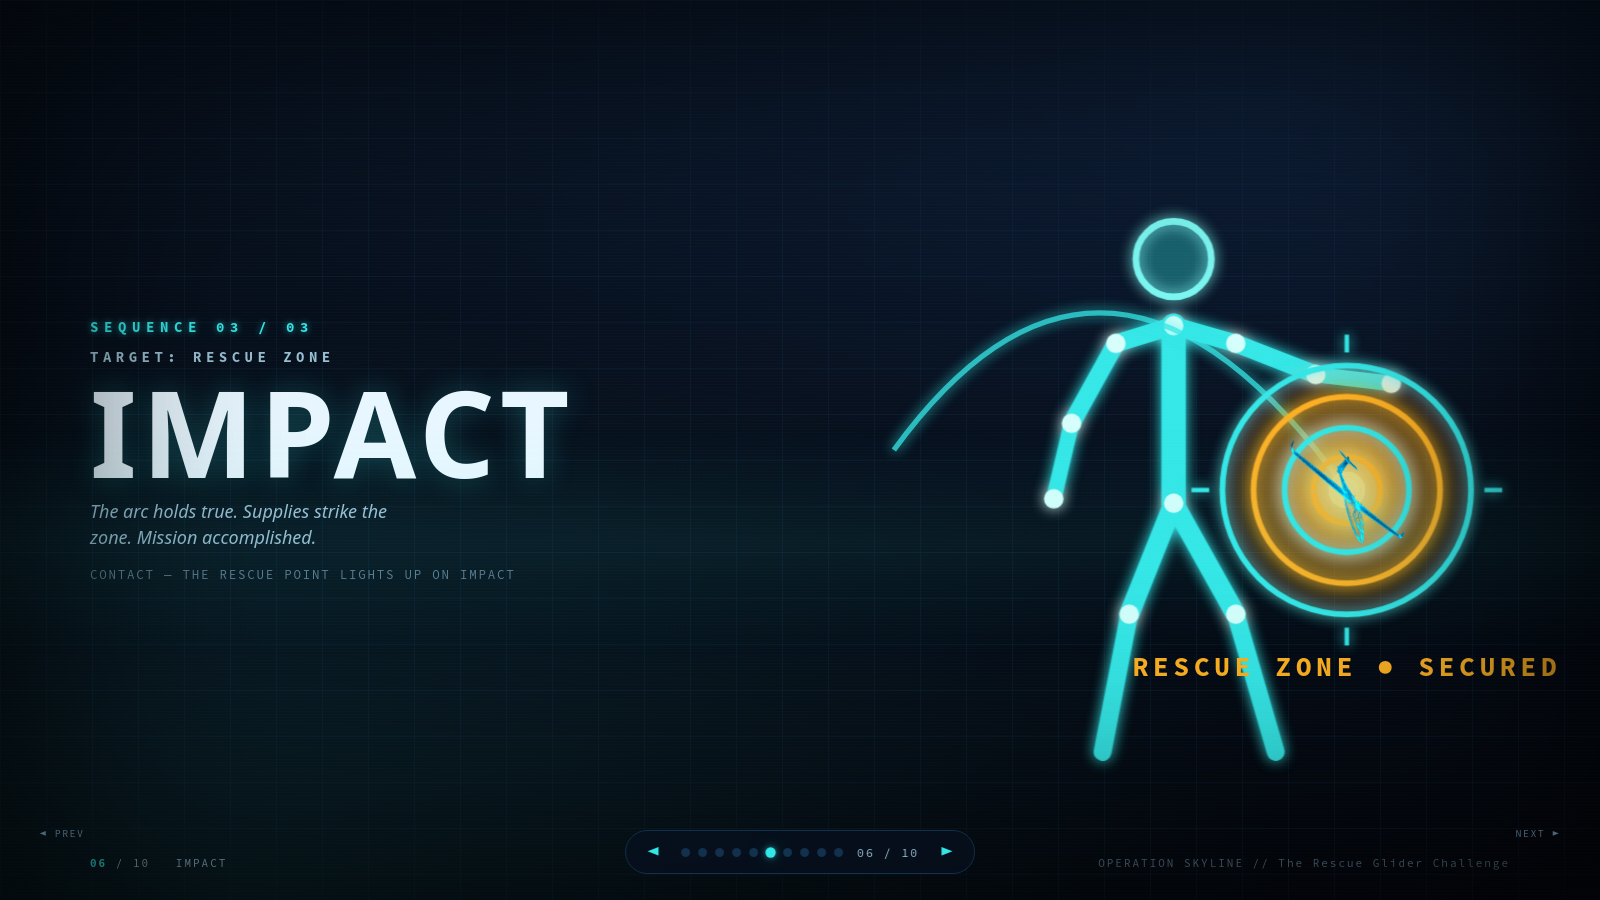
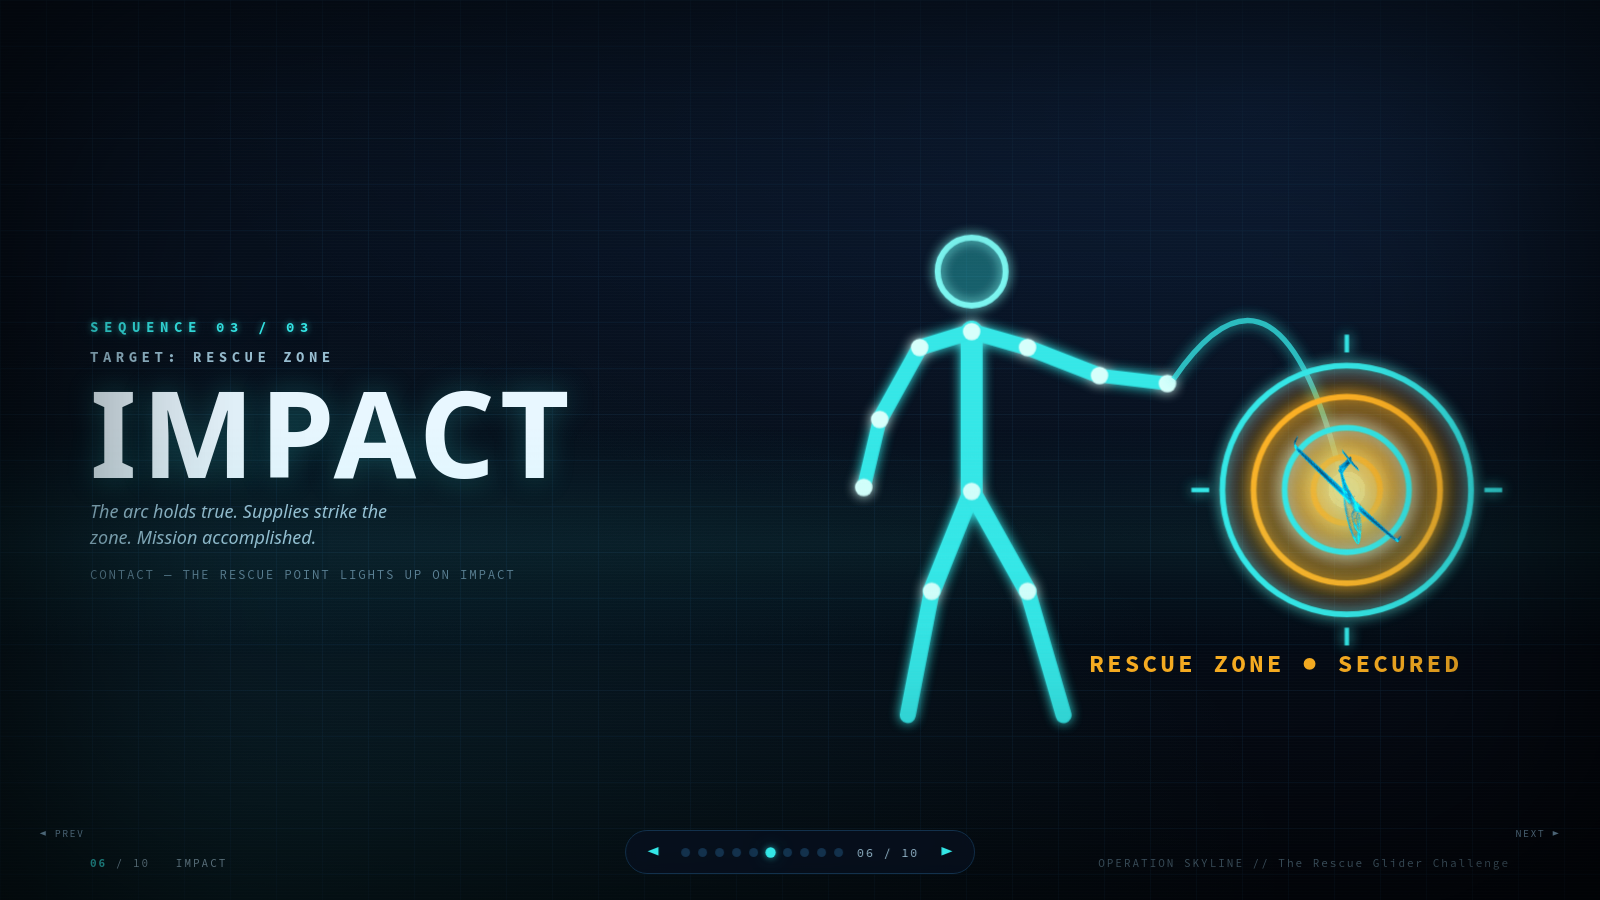
IMPACT slide: reposition figure so it no longer overlaps the target
The follow-through pose extended the right arm into the same right-side space as
the target rings, so the figure crossed through the bullseye; the caption also
overflowed the viewBox and clipped.

- Added an optional transform arg to figure(); on IMPACT the figure is shifted
  left and scaled (translate(-76,12) scale(0.9)) to clear the target.
- Rerouted the flight arc + retuned the glider keyframes to run from the
  follow-through hand up and over into the bullseye (clear of the body).
- Repositioned/resized the 'RESCUE ZONE - SECURED' caption so it fits.

Verified via headless Chromium (qa/html-06-impact.png); build/launch unchanged.

Changed region(s): [[0.5312, 0.2178, 0.9688, 0.8711], [0.8438, 0.56, 0.875, 0.6222]]

diff --git a/deck.html b/deck.html
@@ -264,11 +264,10 @@
   /* IMPACT — glider arcs in from the left and dives into the bullseye */
   .slide.active .glideI{animation:glideI 1.5s var(--ease) .5s forwards;}
   @keyframes glideI{
-    0%  {opacity:0; transform:translate(-204px,-18px) rotate(-50deg) scale(.7);}
-    12% {opacity:1; transform:translate(-204px,-18px) rotate(-50deg) scale(1);}
-    55% {transform:translate(-105px,-80px) rotate(8deg);}
-    88% {transform:translate(-28px,-18px) rotate(40deg);}
-    100%{opacity:1; transform:translate(0,0) rotate(54deg) scale(.9);}
+    0%  {opacity:0; transform:translate(-78px,-50px) rotate(-58deg) scale(.6);}
+    14% {opacity:1; transform:translate(-78px,-50px) rotate(-58deg) scale(1);}
+    55% {transform:translate(-34px,-66px) rotate(-2deg);}
+    100%{opacity:1; transform:translate(0,0) rotate(58deg) scale(.9);}
   }
   /* amber shock-ripple when the glider strikes the zone */
   .ripple{opacity:0; transform-box:fill-box; transform-origin:center;}
@@ -402,8 +401,9 @@ function emblem(size){
 }
 
 // Holo-figure (articulated neon mannequin) in a given pose.
-// pose: 'build' | 'launch' | 'follow'
-function figure(pose){
+// pose: 'build' | 'launch' | 'follow'.  Optional `xform` repositions/scales the
+// whole figure within the 0..300 box (used on IMPACT to clear the target).
+function figure(pose, xform=""){
   // joint coordinates in a 0..300 box
   const P={
     build:{ // both hands forward at bench, head down slightly
@@ -431,7 +431,7 @@ function figure(pose){
     <defs><filter id="fg-${pose}" x="-40%" y="-40%" width="180%" height="180%">
       <feGaussianBlur stdDeviation="3" result="b"/><feMerge>
       <feMergeNode in="b"/><feMergeNode in="SourceGraphic"/></feMerge></filter></defs>
-    <g filter="url(#fg-${pose})" fill="none">
+    <g filter="url(#fg-${pose})" fill="none"${xform ? ` transform="${xform}"` : ""}>
       <!-- spine + limbs -->
       ${bone(P.neck,P.hip,11,.05)}
       ${bone(P.neck,P.shL,8,.1)}${bone(P.shL,P.elL,8,.18)}${bone(P.elL,P.haL,7,.26)}
@@ -585,7 +585,7 @@ function stageLaunch(){
 
 // 6 — IMPACT stage: arc completes into target, rings light, amber ripple (0..300 space)
 function stageImpact(){
-  return `${figure("follow")}
+  return `${figure("follow", "translate(-76,12) scale(0.9)")}
   <svg viewBox="0 0 300 300" aria-hidden="true">
     <defs><filter id="gi" x="-60%" y="-60%" width="220%" height="220%">
       <feGaussianBlur stdDeviation="2.8" result="b"/><feMerge>
@@ -594,9 +594,9 @@ function stageImpact(){
         <stop offset="0%" stop-color="var(--amberLt)" stop-opacity=".9"/>
         <stop offset="60%" stop-color="var(--amber)" stop-opacity=".25"/>
         <stop offset="100%" stop-color="var(--amber)" stop-opacity="0"/></radialGradient></defs>
-    <!-- flight arc into the zone (ends at target centre 228,168) -->
-    <path d="M24 150 Q120 18 228 168" fill="none" stroke="var(--holo)" stroke-width="2.4"
-      stroke-dasharray="2 9" filter="url(#gi)" class="draw" style="--len:380; opacity:.8"/>
+    <!-- flight arc: follow-through hand -> target (stays clear of the figure) -->
+    <path d="M150 118 Q198 48 226 164" fill="none" stroke="var(--holo)" stroke-width="2.4"
+      stroke-dasharray="2 9" filter="url(#gi)" class="draw" style="--len:180; opacity:.8"/>
     <!-- target: concentric rings, right side, lighting up in sequence -->
     <g filter="url(#gi)" transform="translate(228,168)">
       <circle r="60" fill="url(#hit)" class="fadein" style="animation-delay:1.15s"/>
@@ -614,8 +614,8 @@ function stageImpact(){
     </g>
     <!-- glider (amber) flying along the arc into the bullseye (ends at 228,168) -->
     <g transform="translate(228,168)">${gliderImg("glideI", 72)}</g>
-    <text x="228" y="252" fill="var(--amber)" font-family="var(--mono)" font-size="12"
-      font-weight="700" text-anchor="middle" letter-spacing="2" class="fadein"
+    <text x="196" y="250" fill="var(--amber)" font-family="var(--mono)" font-size="11"
+      font-weight="700" text-anchor="middle" letter-spacing="1.4" class="fadein"
       style="animation-delay:1.55s">RESCUE ZONE ● SECURED</text>
   </svg>`;
 }
